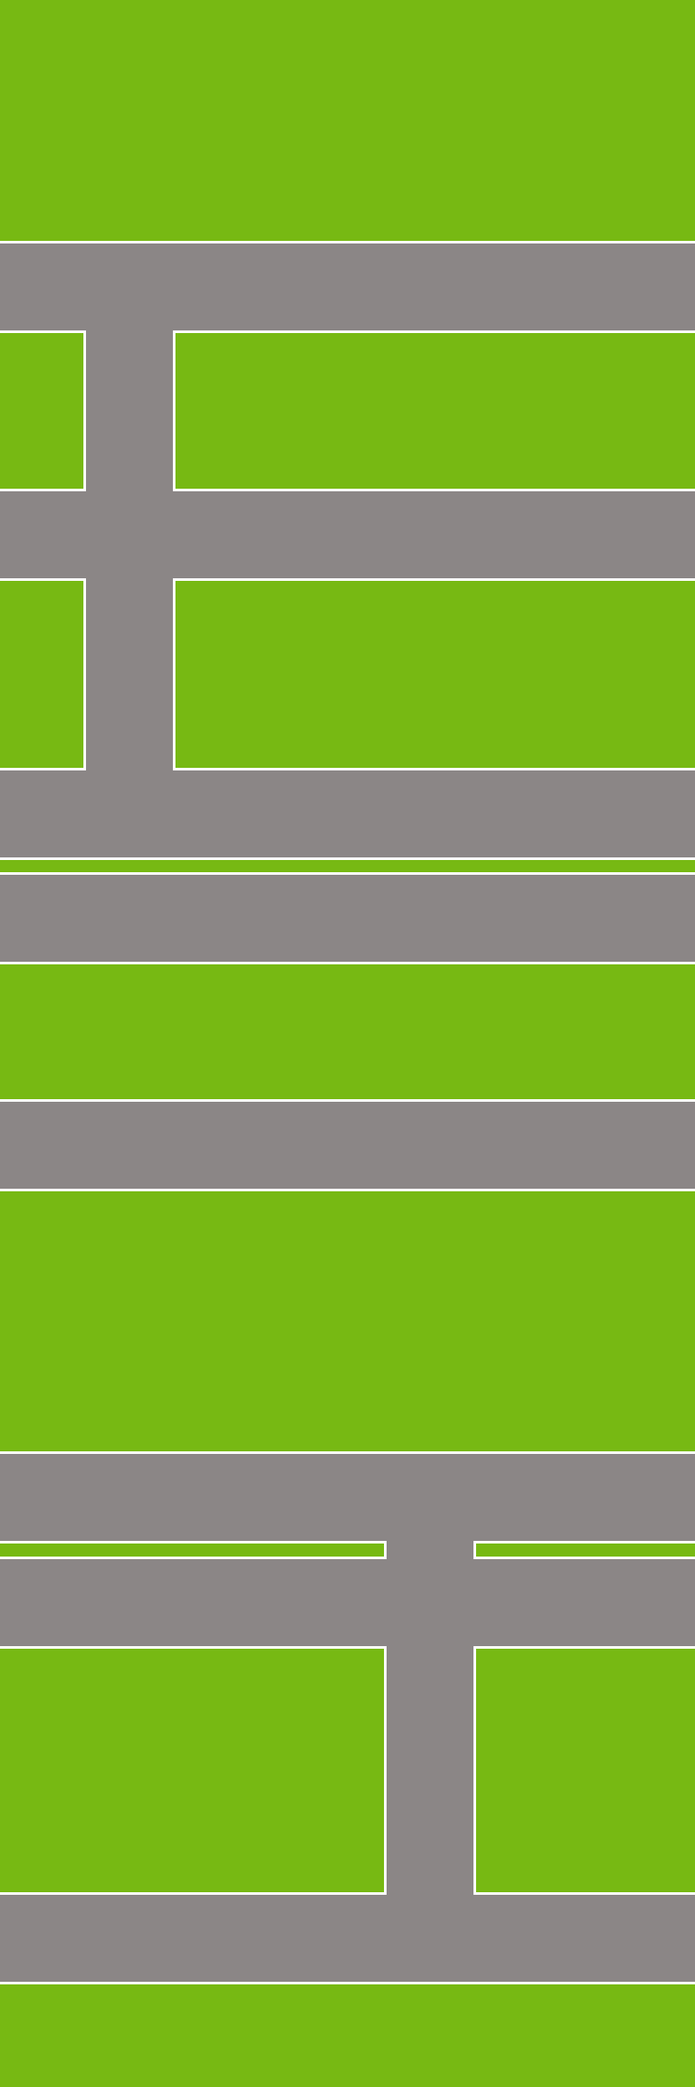
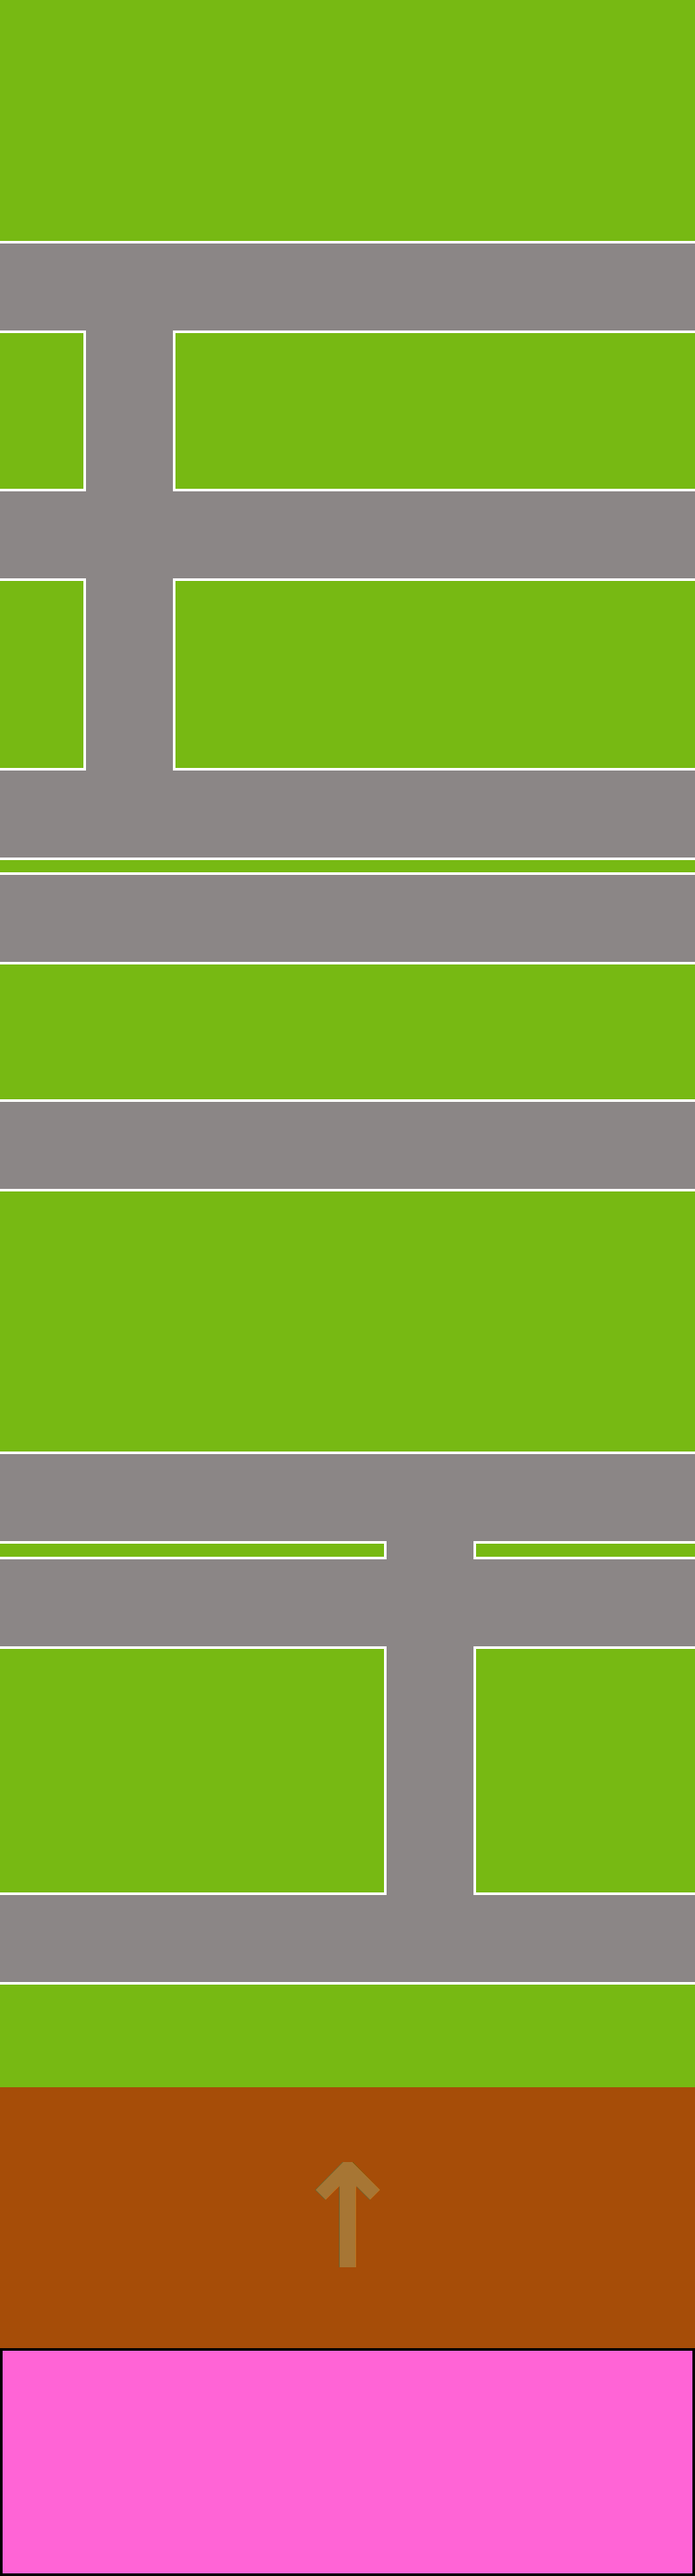
add hidden room in street level

diff --git a/src/levels/StreetLevel.js b/src/levels/StreetLevel.js
@@ -14,6 +14,7 @@ class StreetLevel extends BaseLevelScene {
         this.load.image('goal', 'assets/images/house_home_transparent.png');
         this.load.image('house', 'assets/images/StreetLevel/house.png');
         this.load.image('mouse', 'assets/images/mouse_left.png');
+        this.load.image('cat_lives', 'assets/images/cat_lives.png');
 
         this.load.audio('backgroundmusic', 'assets/sounds/songs/Big_Rock.mp3');
         this.load.audio('cat_hit', 'assets/sounds/animals/cat_angry.ogg');
@@ -31,8 +32,9 @@ class StreetLevel extends BaseLevelScene {
 
         // Set world and camera bounds
         const worldheight = this.game.config.height*4;
-        this.cameras.main.setBounds(0, 0, this.game.config.width, worldheight);
-        this.physics.world.setBounds(0, 0, this.game.config.width, worldheight, true, true, true, true);
+        const real_worldheight = 2962;
+        this.cameras.main.setBounds(0, 0, this.game.config.width, real_worldheight);
+        this.physics.world.setBounds(0, 0, this.game.config.width, real_worldheight, true, true, true, true);
 
         // Add background (with streets)
         this.add.image(0, 0, 'bg').setOrigin(0, 0);
@@ -136,6 +138,24 @@ class StreetLevel extends BaseLevelScene {
                 console.log('no audio possible');
             }
             this.catDies(this.cat);
+        });
+
+        // Add wall in front of hidden room
+        this.hiddenwall = this.physics.add.image((800-105)/2, worldheight+150, 'asdf');
+        this.hiddenwall.displayHeight = 300;
+        this.hiddenwall.displayWidth = 800-105;
+        this.hiddenwall.body.allowGravity = false;
+        this.hiddenwall.setImmovable();
+        this.hiddenwall.visible = false;
+        this.physics.add.collider(this.cat, this.hiddenwall);
+
+        // Add hidden extra lives
+        this.extra_lives = this.physics.add.sprite(this.game.config.width/2, real_worldheight-131, 'cat_lives');
+        this.extra_lives.body.setAllowGravity(0, 0);
+
+        this.physics.add.overlap(this.cat, this.extra_lives, ()=>{
+            // TODO this should be a cape or something, also sound
+            this.addScore(1000);
         });
 
         // should be called at the end to the HUD will be on top
